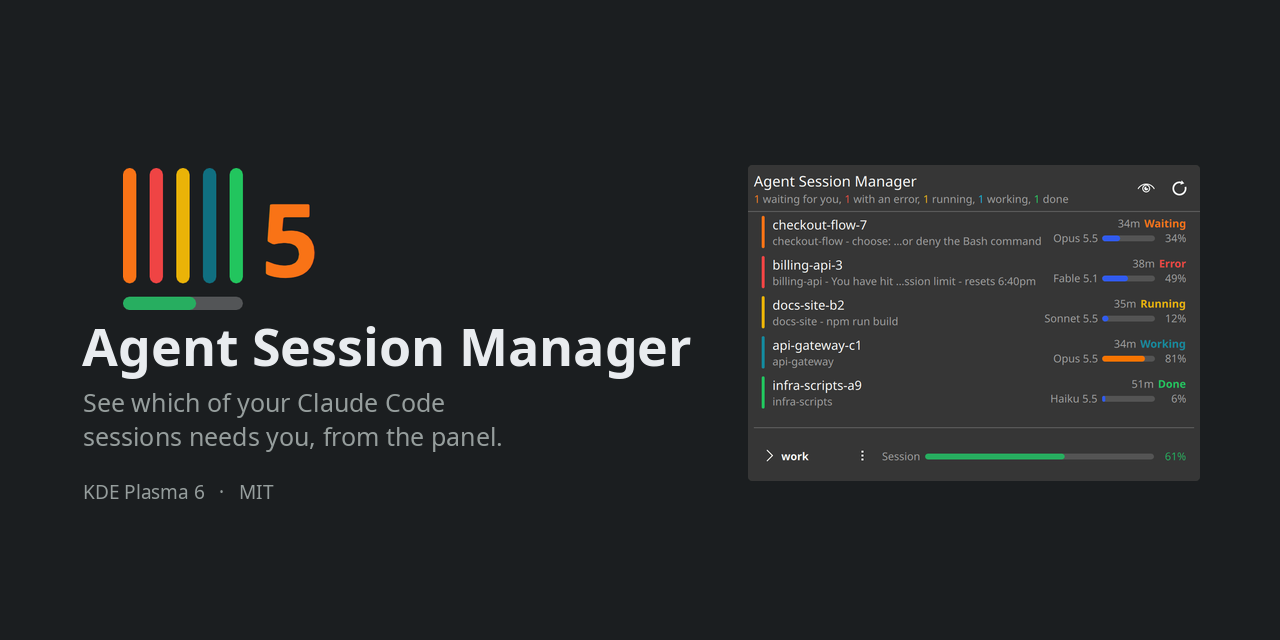
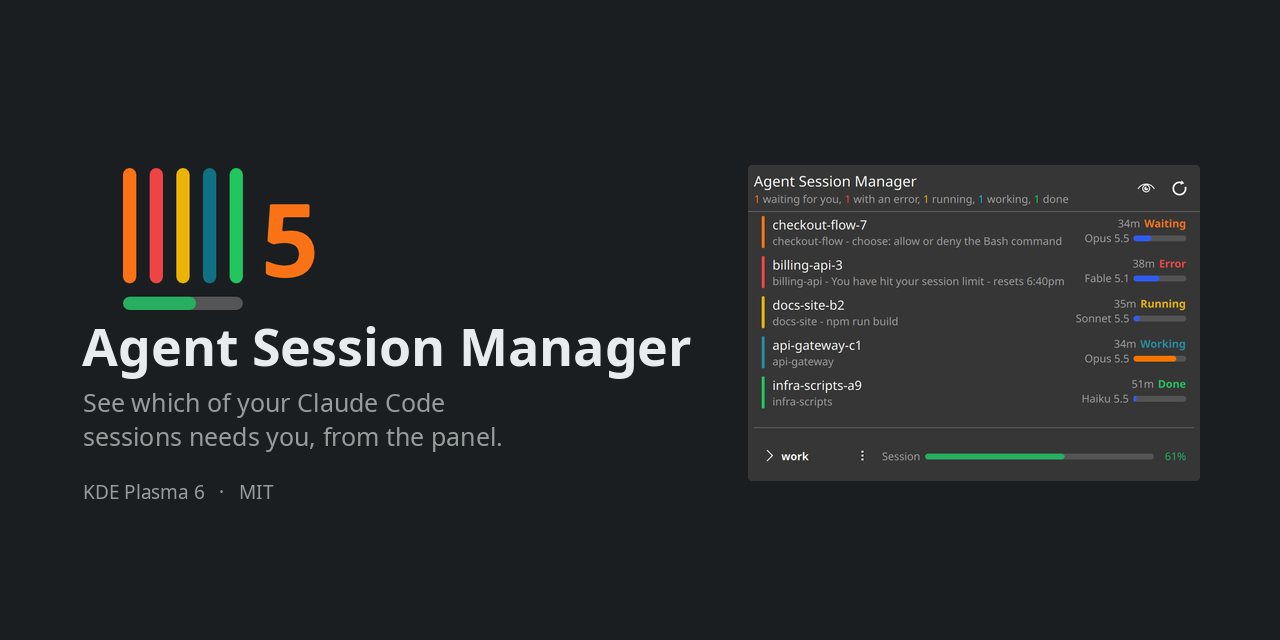
Start with the context percentage off, and retake the screenshots
The model and the bar stay on by default; the exact percentage starts off,
since the bar already says roughly how full and the hover gives the count.
Reset all settings puts it back off too. Both screenshot sets are retaken
with the new default - which also gives each row's second line the room
to stop eliding.

build-all.sh's record() had lost its padding and assembly steps, and its
last `[[ … ]] &&` returned 1 under set -e for every scenario but the demo;
both are fixed, and a capture that produces no frames now says so instead
of failing on a bad arithmetic expression.

Changed region(s): [[0.6875, 0.3438, 0.9375, 0.5], [0.8438, 0.5312, 0.9375, 0.6562]]

diff --git a/package/contents/ui/ConfigGeneral.qml b/package/contents/ui/ConfigGeneral.qml
@@ -37,7 +37,7 @@ KCM.SimpleKCM {
     property bool cfg_shortLabels: false
     property bool cfg_rowModel: true
     property bool cfg_rowContextBar: true
-    property bool cfg_rowContextPercent: true
+    property bool cfg_rowContextPercent: false
     property bool cfg_customColors: false
     property color cfg_colorWaiting: Sessions.defaultColor("waiting")
     property color cfg_colorError: Sessions.defaultColor("error")
@@ -77,7 +77,7 @@ KCM.SimpleKCM {
         page.cfg_shortLabels = false
         page.cfg_rowModel = true
         page.cfg_rowContextBar = true
-        page.cfg_rowContextPercent = true
+        page.cfg_rowContextPercent = false
 
         page.cfg_customColors = false
         page.cfg_colorWaiting = Sessions.defaultColor("waiting")

diff --git a/docs/design.md b/docs/design.md
@@ -400,9 +400,9 @@ Claude Code Sessions                    👁  ⟳
 1 waiting for you, 2 running, 1 done
 ──────────────────────────────────────────────
 ▎ checkout-flow-7                     12s Waiting
-▎ checkout-flow - input needed   Opus 5.5 ▬▬▬── 34%
+▎ checkout-flow - input needed       Opus 5.5 ▬▬▬──
 ▎ docs-site-b2      ✎  ✕          4m Running
-▎ docs-site - npm run build    Sonnet 4.5 ▬──── 12%
+▎ docs-site - npm run build        Sonnet 4.5 ▬────
 ──────────────────────────────────────────────
 ▸ work        ▸  Session ███░░░░░░░  11%
 ```
@@ -415,7 +415,9 @@ takes the theme accent until three quarters full, then amber, then red past
 tokens: "224K of 1M tokens of context". There is no "ctx" label: next to a
 model's name a bar can only be one thing. The model, the bar and the percentage
 each have their own switch on the Popup page, since together they make the row
-busier than everyone wants; the line goes away with the last of them.
+busier than everyone wants; the line goes away with the last of them. The
+percentage starts off: the bar already says roughly how full, and the hover
+gives the exact count.
 
 Clicking a session's name takes you to it (see [Jumping to a
 session](#jumping-to-a-session)); the name underlines under the pointer, as a
@@ -607,7 +609,7 @@ All of it resets from one button, at the foot of the General page.
   Profile, Uptime and Directory are not optional: they are what the expansion is
   for. Directory and Repository can be abbreviated to Dir and Repo.
 - **Session rows** - the model, the context bar and the context percentage, each
-  on its own. All on by default.
+  on its own. The model and the bar are on by default, the percentage off.
 - **Hide session names and paths** - the same toggle as the eye in the header.
 
 ## Risks

diff --git a/README.md b/README.md
@@ -86,8 +86,8 @@ command to drop back into that session.
 
 Under each state sits the model the session is on and a bar for how full its
 context window is, amber past three quarters and red past 90%. Hover it for the
-token count. The model, the bar and the percentage can each be turned off on the
-Popup settings page.
+token count. The model and the bar can each be turned off on the Popup settings
+page, and the exact percentage turned on.
 
 <div align="center">
 <img src="docs/screenshots/copy.gif" alt="A session opened, one of its values clicked to copy it, then the whole row right-clicked" width="660">
